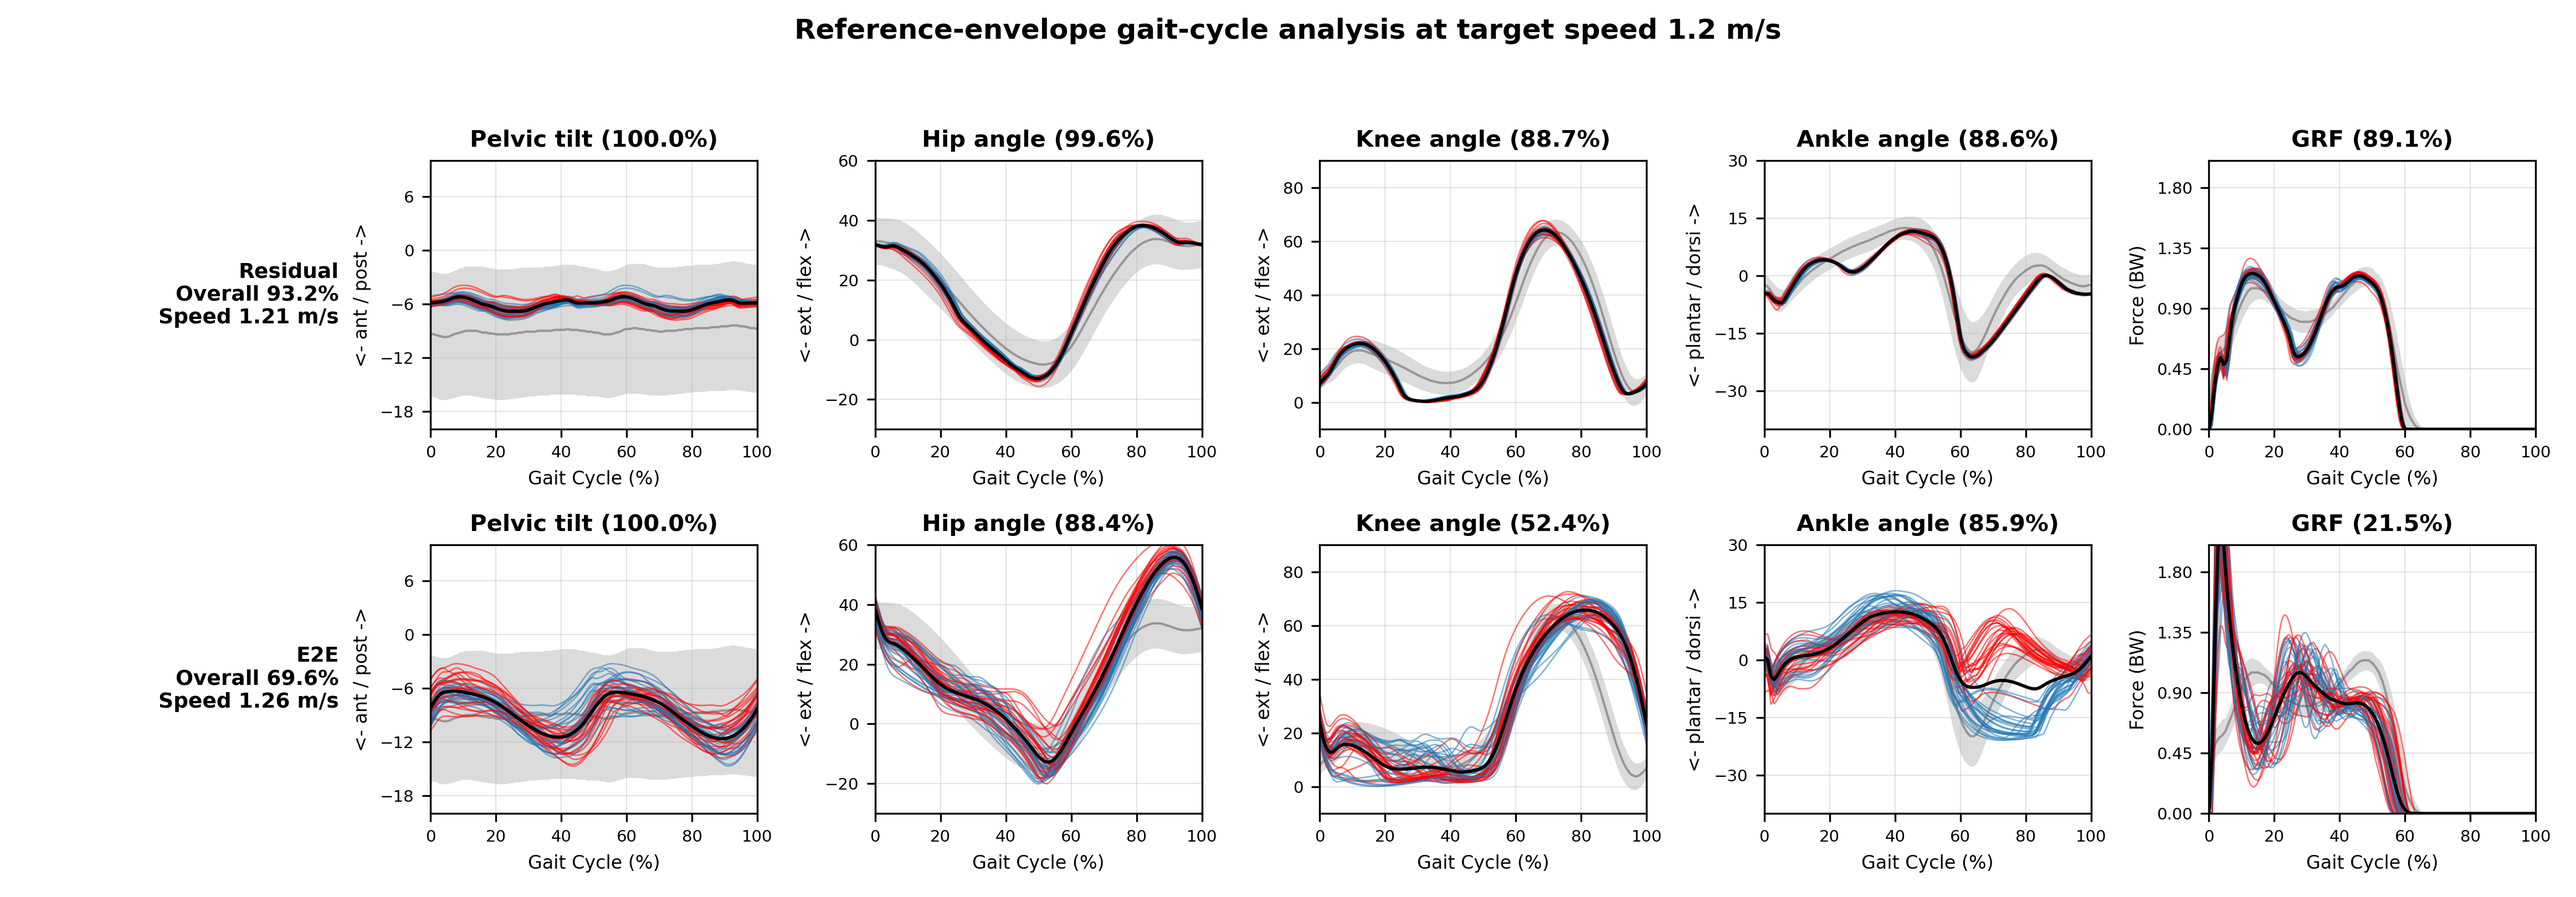
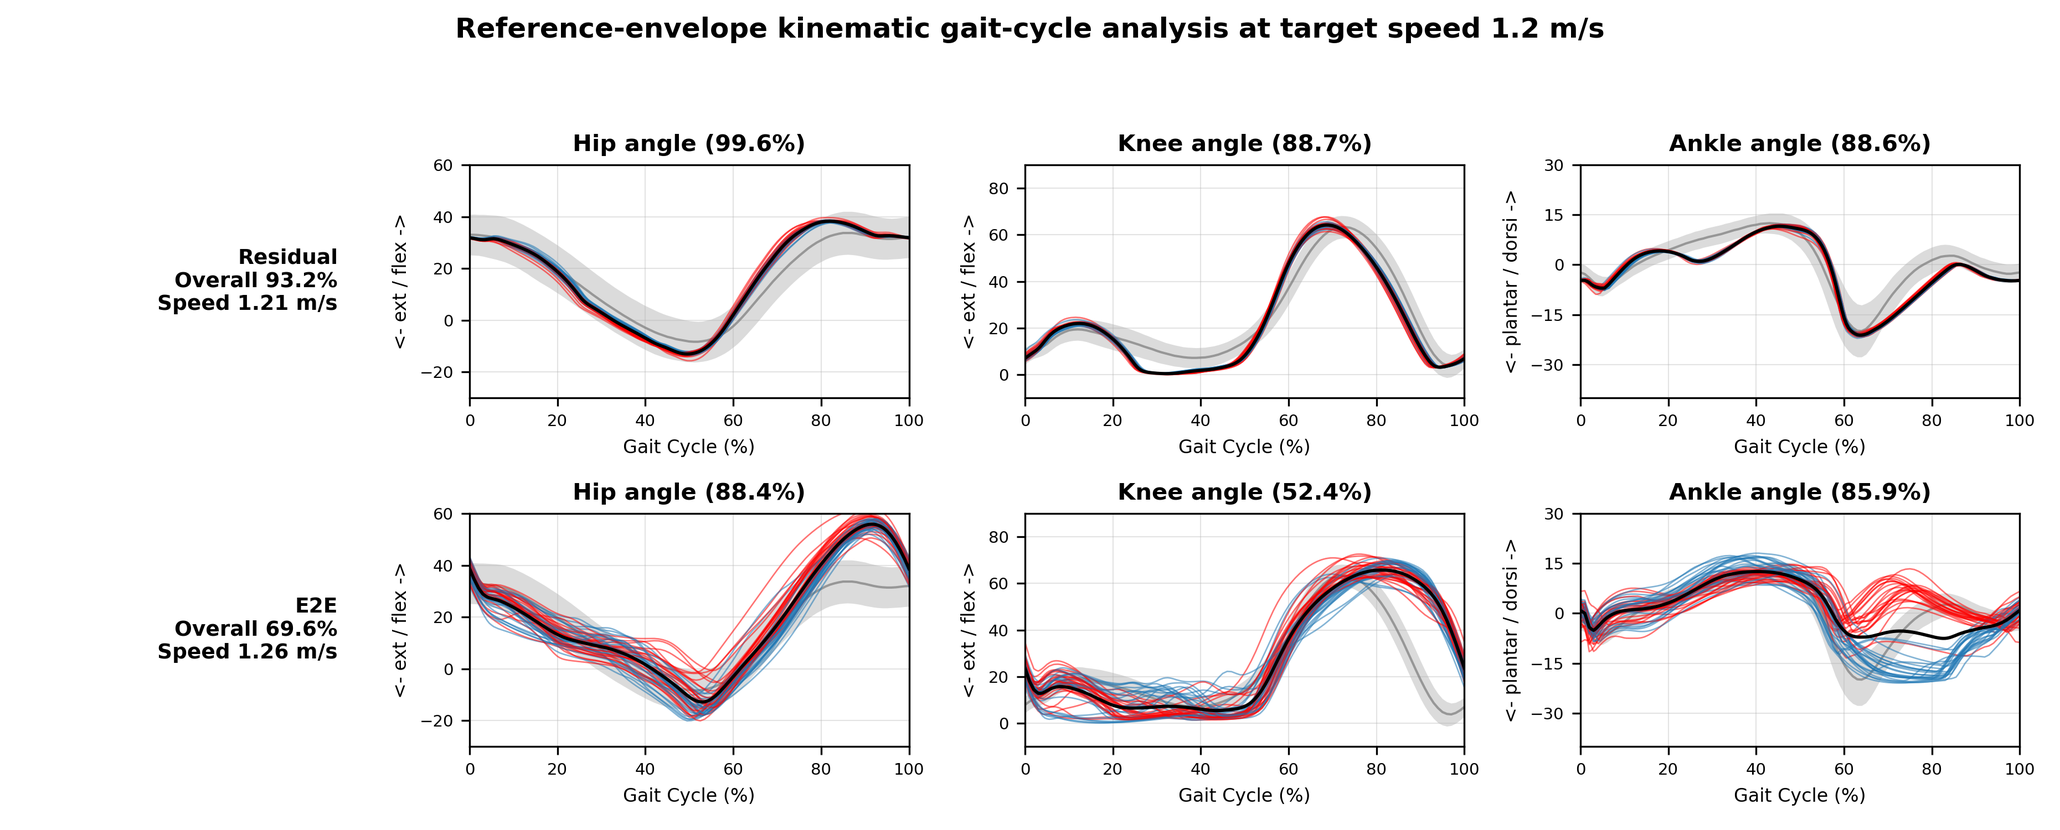
Focus kinematic gait profiles

diff --git a/main.tex b/main.tex
@@ -384,11 +384,24 @@ consistency.
 
 \subsubsection{Symmetry and repeatability}
 Finally, bilateral symmetry was quantified as the root-mean-square difference
-between the average left and right normalized profiles. Stride-to-stride
-repeatability was quantified using the coefficient of variation (CV) of stride
-time and stride length. Lower waveform differences and lower CV values indicate
-more symmetric and more repeatable gait. These measures describe gait
-regularity rather than external perturbation robustness.
+between the average left and right normalized profiles. For a gait-cycle
+quantity $y$, this waveform difference is
+\begin{equation}
+D_y =
+\sqrt{\frac{1}{N}\sum_{k=1}^{N}
+\left(\bar{y}_{L}(x_k)-\bar{y}_{R}(x_k)\right)^2},
+\end{equation}
+where $\bar{y}_{L}$ and $\bar{y}_{R}$ are the average left- and right-side
+profiles. Stride-to-stride repeatability was quantified using the coefficient
+of variation (CV) of stride time and stride length:
+\begin{equation}
+\mathrm{CV}_{z}=100\frac{\sigma_z}{\mu_z},
+\end{equation}
+where $z$ denotes either stride time or stride length, and $\mu_z$ and
+$\sigma_z$ are its mean and standard deviation over the analyzed gait cycles.
+Lower waveform differences and lower CV values indicate more symmetric and
+more repeatable gait. These measures describe gait regularity rather than
+external perturbation robustness.
 
 \section{Results and Analysis}
 \label{sec:results-and-analysis}
@@ -483,17 +496,18 @@ ankle, and GRF components.}
 \label{fig:gait_score_bars}
 \end{figure}
 
-Figures~\ref{fig:gait_profiles_08}--\ref{fig:gait_profiles_12} show the full
-set of normalized gait-cycle profiles used to compute these scores. They make
-the component scores interpretable by showing where each controller follows or
-deviates from the reference envelopes across pelvic tilt, hip, knee, ankle, and
-GRF profiles. The residual reflex controller produced compact and consistent
-left--right gait cycles across speeds, whereas the end-to-end baseline showed
-larger cycle-to-cycle variation, especially in the knee and GRF profiles.
+Figures~\ref{fig:gait_profiles_08}--\ref{fig:gait_profiles_12} show the
+normalized kinematic gait-cycle profiles used to interpret these scores. They
+show where each controller follows or deviates from the reference envelopes
+across hip, knee, and ankle profiles. The residual reflex
+controller produced compact and consistent left--right gait cycles across
+speeds, whereas the end-to-end baseline showed larger cycle-to-cycle variation,
+especially in the knee profile. The GRF component is analyzed separately in the
+next subsection.
 
 \begin{figure*}[!t]
 \centerline{\includegraphics[width=0.98\textwidth]{gait_analysis_residual_vs_e2e_0p8.png}}
-\caption{Reference-envelope gait-cycle visualization at target speed 0.8~m/s.
+\caption{Reference-envelope kinematic gait-cycle visualization at target speed 0.8~m/s.
 Blue and red curves denote left and right gait cycles, respectively; the black
 curve is the cycle average and the gray band is the reference envelope.}
 \label{fig:gait_profiles_08}
@@ -501,7 +515,7 @@ curve is the cycle average and the gray band is the reference envelope.}
 
 \begin{figure*}[!t]
 \centerline{\includegraphics[width=0.98\textwidth]{gait_analysis_residual_vs_e2e_1p0.png}}
-\caption{Reference-envelope gait-cycle visualization at target speed 1.0~m/s.
+\caption{Reference-envelope kinematic gait-cycle visualization at target speed 1.0~m/s.
 Blue and red curves denote left and right gait cycles, respectively; the black
 curve is the cycle average and the gray band is the reference envelope.}
 \label{fig:gait_profiles_10}
@@ -509,7 +523,7 @@ curve is the cycle average and the gray band is the reference envelope.}
 
 \begin{figure*}[!t]
 \centerline{\includegraphics[width=0.98\textwidth]{gait_analysis_residual_vs_e2e_1p2.png}}
-\caption{Reference-envelope gait-cycle visualization at target speed 1.2~m/s.
+\caption{Reference-envelope kinematic gait-cycle visualization at target speed 1.2~m/s.
 Blue and red curves denote left and right gait cycles, respectively; the black
 curve is the cycle average and the gray band is the reference envelope.}
 \label{fig:gait_profiles_12}
